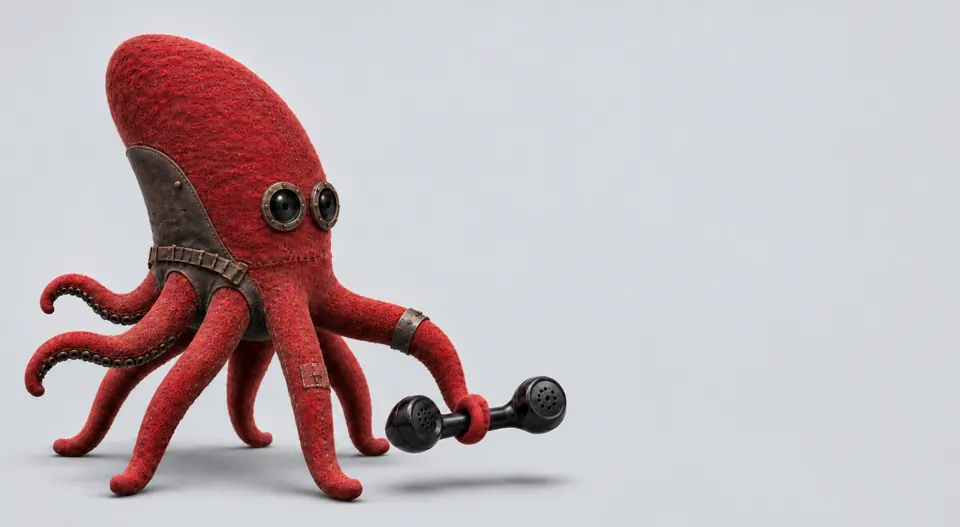
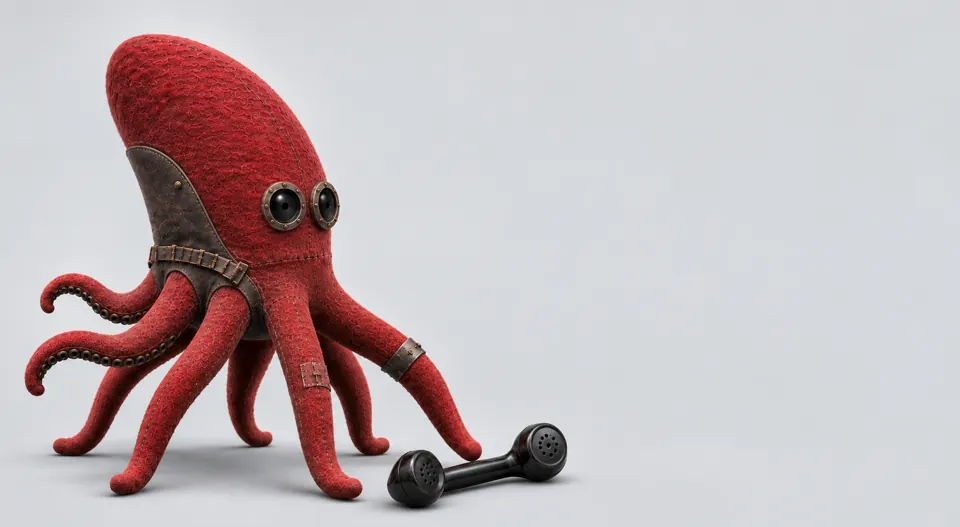
feat(sahne): 22 frames (Codex in-betweens), static regions locked to the first frame to remove flicker
Claude-Session: https://claude.ai/code/session_01UFKx6JiipSBJD7cVk36oyW

diff --git a/public/sahne/index.html b/public/sahne/index.html
@@ -65,7 +65,7 @@ html:not(.js) svg.lead,html:not(.js) .hint{display:none}
 <main>
 <section class="act" id="ses" aria-label="Ses ajanı">
   <div class="stage">
-    <img class="fallback" src="/sahne/f/08.webp" alt="ATRON kuklası bir koluyla telefon ahizesini kulağına tutuyor">
+    <img class="fallback" src="/sahne/f/22.webp" alt="ATRON kuklası bir koluyla telefon ahizesini kulağına tutuyor">
     <canvas id="cv" aria-hidden="true"></canvas>
     <svg class="lead" aria-hidden="true"><path id="lp"/><circle id="lc" r="4"/></svg>
     <header class="top"><a href="/"><img src="/logo.png" alt="ATRON" width="1037" height="266"></a><span class="mono r">OPERASYON KATMANI · 01 / SES</span></header>
@@ -90,7 +90,7 @@ html:not(.js) svg.lead,html:not(.js) .hint{display:none}
 <script>
 (function(){
 if(!document.documentElement.classList.contains('js')) return;
-var N=8, IW=1624, IH=893, PAPER='#d6d8dd';
+var N=22, IW=1624, IH=893, PAPER='#d6d8dd';
 var cv=document.getElementById('cv'), cx=cv.getContext('2d');
 var act=document.getElementById('ses'), b1=document.getElementById('b1'), b2=document.getElementById('b2');
 var clock=document.getElementById('clock'), hint=document.getElementById('hint'), lp=document.getElementById('lp'), lc=document.getElementById('lc');
@@ -118,7 +118,7 @@ function draw(){
   var a=imgs[clamp(i,0,N-1)], b=imgs[clamp(i+1,0,N-1)];
   if(a&&a.complete&&a.naturalWidth){ cx.globalAlpha=1; cx.drawImage(a,rect.x,rect.y,rect.w,rect.h); }
   // stop-motion: hold each frame, blend only in the last 30% of the step
-  var k=band(f,.7,1);
+  var k=band(f,.45,1);
   if(k>0&&b&&b.complete&&b.naturalWidth){ cx.globalAlpha=k; cx.drawImage(b,rect.x,rect.y,rect.w,rect.h); cx.globalAlpha=1; }
   if(portrait){ var g=cx.createLinearGradient(0,rect.y+rect.h-24,0,rect.y+rect.h); g.addColorStop(0,'rgba(214,216,221,0)'); g.addColorStop(1,PAPER); cx.fillStyle=g; cx.fillRect(0,rect.y+rect.h-24,W,25);
     g=cx.createLinearGradient(0,rect.y,0,rect.y+50); g.addColorStop(0,PAPER); g.addColorStop(1,'rgba(214,216,221,0)'); cx.fillStyle=g; cx.fillRect(0,rect.y-1,W,51); }
